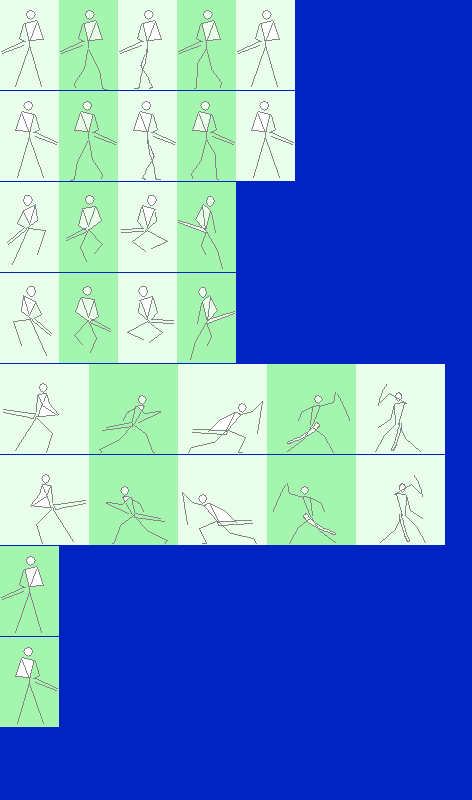
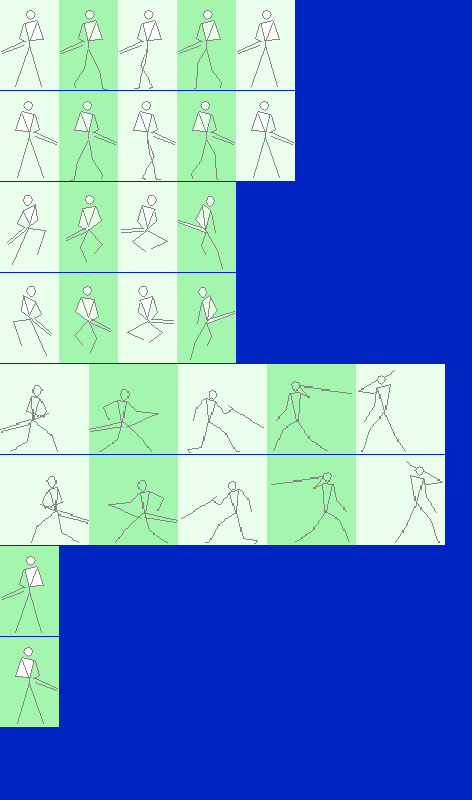
bugfixes

diff --git a/src/fighter/Zoro.js b/src/fighter/Zoro.js
@@ -28,17 +28,17 @@ export class Zoro extends Character {
             'left_jump_3': [[118, 273, 59, 90], [29, 90], [18, 13, 23, 60], [0, 0, 0, 0]],
             'left_jump_4': [[177, 273, 59, 90], [29, 90], [18, 13, 23, 60], [0, 0, 0, 0]],
 
-            'right_ground_1': [[0, 364, 89, 90], [29, 90], [28, 20, 30, 64], [0, 0, 0, 0]],
-            'right_ground_2': [[89, 364, 89, 90], [29, 90], [31, 34, 38, 54], [0, 0, 0, 0]],
-            'right_ground_3': [[178, 364, 89, 90], [29, 90], [30, 39, 40, 46], [74, 28, 14, 46]],
-            'right_ground_4': [[267, 364, 89, 90], [29, 90], [31, 34, 42, 50], [66, 24, 20, 46]],
-            'right_ground_5': [[356, 364, 89, 90], [29, 90], [25, 28, 35, 55], [0, 0, 0, 0]],
+            'right_ground_1': [[0, 364, 89, 90], [29, 90], [24, 20, 20, 58], [0, 0, 0, 0]],
+            'right_ground_2': [[89, 364, 89, 90], [29, 90], [18, 24, 28, 58], [0, 0, 0, 0]],
+            'right_ground_3': [[178, 364, 89, 90], [29, 90], [18, 24, 26, 58], [54, 28, 30, 46]],
+            'right_ground_4': [[267, 364, 89, 90], [29, 90], [16, 16, 22, 58], [48, 20, 36, 20]],
+            'right_ground_5': [[356, 364, 89, 90], [29, 90], [14, 10, 22, 58], [0, 0, 0, 0]],
 
-            'left_ground_1': [[0, 455, 89, 90], [59, 90], [31, 20, 30, 64], [0, 0, 0, 0]],
-            'left_ground_2': [[89, 455, 89, 90], [59, 90], [20, 34, 38, 54], [0, 0, 0, 0]],
-            'left_ground_3': [[178, 455, 89, 90], [59, 90], [19, 39, 40, 46], [1, 28, 14, 46]],
-            'left_ground_4': [[267, 455, 89, 90], [59, 90], [16, 34, 42, 50], [3, 24, 20, 46]],
-            'left_ground_5': [[356, 455, 89, 90], [59, 90], [29, 28, 35, 55], [0, 0, 0, 0]],
+            'left_ground_1': [[0, 455, 89, 90], [59, 90], [45, 20, 20, 58], [0, 0, 0, 0]],
+            'left_ground_2': [[89, 455, 89, 90], [59, 90], [43, 24, 28, 58], [0, 0, 0, 0]],
+            'left_ground_3': [[178, 455, 89, 90], [59, 90], [45, 24, 26, 58], [5, 28, 30, 46]],
+            'left_ground_4': [[267, 455, 89, 90], [59, 90], [51, 16, 22, 58], [5, 20, 36, 20]],
+            'left_ground_5': [[356, 455, 89, 90], [59, 90], [53, 10, 22, 58], [0, 0, 0, 0]],
         }
         this.animations = {
             [FIGHTERDIRECTION.RIGHT]: {

diff --git a/src/fighter/Fighter.js b/src/fighter/Fighter.js
@@ -7,7 +7,7 @@ export class Character {
     constructor(name, playerNumber, x, y) {
         this.name = name
         this.playerNumber = playerNumber;
-        this.health = 100
+        this.health = 150
         this.x = x
         this.y = y
         this.velocity = {x: 0, y: 0}
@@ -19,7 +19,7 @@ export class Character {
         this.currentAnimation = {}
         this.animationFrameIndex = 0
         this.framesElapsed = 0
-        this.framesHold = 10
+        this.framesHold = 6
 
         this.hitbox = []
         this.hurtbox = []
@@ -98,7 +98,7 @@ export class Character {
                         this.changeState(FIGHTERSTATE.IDLE)
                     }
                 }
-            }
+            },
         }
         this.currentState = FIGHTERSTATE.IDLE
         
@@ -147,7 +147,7 @@ export class Character {
         if (areColliding(this.hurtbox, otherPlayer.hurtbox)) {
             if (this.x < otherPlayer.x) {
                 this.x += (Math.min(-2, (this.velocity.x + otherPlayer.velocity.x)))
-            } else {
+            } else if (this.x > otherPlayer.x) {
                 this.x += (Math.max(2, (this.velocity.x + otherPlayer.velocity.x)))
             }
             
@@ -158,8 +158,6 @@ export class Character {
         this.y = Math.min(this.y + this.velocity.y, STAGE.FLOOR_Y)
         
         this.checkFighterOnScreen()
-
-        
     }
 
     drawDebug(context) {
@@ -202,7 +200,7 @@ export class Character {
         context.drawImage(this.sprites, x, y, width, height, this.x - anchorX, this.y - anchorY, width, height)
         this.drawDebug(context)
 
-        if (this.framesElapsed % this.framesHold == 0) {
+        if (this.framesElapsed == this.framesHold - 1) {
             this.framesElapsed = 0
             this.animationFrameIndex++
         }

diff --git a/src/Game.js b/src/Game.js
@@ -23,15 +23,16 @@ export class Game {
         return context
     }
 
-    update() {
-        this.player1.update(this.player2)
-        this.player2.update(this.player1)
-    }
+    drawUI(context) {
+        context.beginPath()
+        context.fillStyle = 'green'
+        context.rect(0, 10, this.player1.health, 10)
+        context.fill()
 
-    draw() {
-        this.context.drawImage(document.querySelector("img[alt='stage']"), 0, 0)
-        this.player1.draw(this.context)
-        this.player2.draw(this.context)
+        context.beginPath()
+        context.fillStyle = 'green'
+        context.rect(VIEWPORT.WIDTH - this.player2.health, 10, this.player2.health, 10)
+        context.fill()
     }
 
     checkHits() {
@@ -41,6 +42,18 @@ export class Game {
         if (areColliding(this.player2.hitbox, this.player1.hurtbox)) {
             console.log('p2 hit p1')
         }
+    }
+
+    update() {
+        this.player1.update(this.player2)
+        this.player2.update(this.player1)
+    }
+
+    draw() {
+        this.context.drawImage(document.querySelector("img[alt='stage']"), 0, 0)
+        this.player1.draw(this.context)
+        this.player2.draw(this.context)
+        this.drawUI(this.context)
     }
 
     frame() {

diff --git a/src/fighter/Sanji.js b/src/fighter/Sanji.js
@@ -30,13 +30,13 @@ export class Sanji extends Character {
 
             'right_ground_1': [[0, 364, 89, 90], [29, 90], [19, 17, 18, 64], [0, 0, 0, 0]],
             'right_ground_2': [[89, 364, 89, 90], [29, 90], [12, 21, 28, 60], [0, 0, 0, 0]],
-            'right_ground_3': [[178, 364, 89, 90], [29, 90], [16, 23, 25, 62], [44, 38, 42, 18]],
+            'right_ground_3': [[178, 364, 89, 90], [29, 90], [16, 23, 25, 60], [44, 38, 42, 18]],
             'right_ground_4': [[267, 364, 89, 90], [29, 90], [14, 26, 24, 60], [40, 40, 48, 16]],
             'right_ground_5': [[356, 364, 89, 90], [29, 90], [12, 21, 28, 60], [0, 0, 0, 0]],
 
             'left_ground_1': [[0, 455, 89, 90], [59, 90], [52, 17, 18, 64], [0, 0, 0, 0]],
             'left_ground_2': [[89, 455, 89, 90], [59, 90], [49, 21, 28, 60], [0, 0, 0, 0]],
-            'left_ground_3': [[178, 455, 89, 90], [59, 90], [48, 23, 25, 62], [3, 38, 42, 18]],
+            'left_ground_3': [[178, 455, 89, 90], [59, 90], [48, 23, 25, 60], [3, 38, 42, 18]],
             'left_ground_4': [[267, 455, 89, 90], [59, 90], [51, 26, 24, 60], [1, 40, 48, 16]],
             'left_ground_5': [[356, 455, 89, 90], [59, 90], [49, 21, 28, 60], [0, 0, 0, 0]],
         }

diff --git a/src/util/Collision.js b/src/util/Collision.js
@@ -1,6 +1,6 @@
 
 export function areColliding(box1, box2) {
-    if (box1 == {x: 0, y: 0, width: 0, height: 0} || box2 == {x: 0, y: 0, width: 0, height: 0}) {
+    if (box1.width == 0 || box1.height == 0 || box2.width == 0 || box2.height == 0) {
         return false
     }
     if (box1.x < box2.x + box2.width &&

diff --git a/src/constants/game.js b/src/constants/game.js
@@ -5,8 +5,8 @@ export const VIEWPORT = {
 
 export const STAGE = {
     FLOOR_Y: 200,
-    P1_START_X: 100,
-    P2_START_X: 250,
+    P1_START_X: 50,
+    P2_START_X: VIEWPORT.WIDTH - 50,
 }
 
 export const PLAYERS = {

diff --git a/src/constants/fighter.js b/src/constants/fighter.js
@@ -4,7 +4,6 @@ export const FIGHTERSTATE = {
     WALK_BACKWARD: 'walk_backward',
     JUMP: 'jump',
     GROUND_ATTACK: 'ground_attack',
-
 }
 
 export const FIGHTERDIRECTION = {
